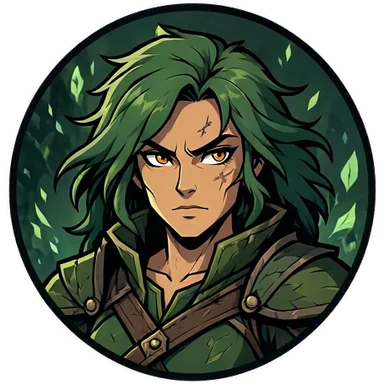
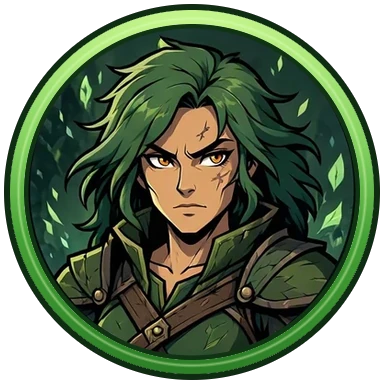
Garra con aro verde en su retrato, como el de Midas

diff --git a/sw.js b/sw.js
@@ -2,7 +2,7 @@
 // Guarda el juego para poder jugar sin conexión. Página, JS y CSS van
 // primero a la red (así se ven los cambios al momento); imágenes y fuentes
 // salen de la caché y se renuevan por detrás.
-var CACHE = 'reino-de-torres-v72';
+var CACHE = 'reino-de-torres-v73';
 var CORE = ['./', 'index.html', 'style.css', 'favicon.svg', 'manifest.json', 'js/data.js', 'js/version.js', 'js/art.js', 'js/meta.js', 'js/board.js', 'js/battle.js', 'js/ui.js', 'assets/ui/boton.webp', 'assets/ui/boton-jugar.webp', 'assets/ui/banner-mazo.webp', 'assets/ui/hueco-cofre.webp', 'assets/ui/boton-duelo.webp', 'assets/ui/boton-coop.webp', 'assets/ui/banner-comandante.webp', 'assets/ui/header.webp', 'assets/ui/navbar.webp', 'assets/ui/titulo.webp', 'assets/ui/letrero.webp', 'assets/tablero.webp', 'assets/enemies/blob.webp', 'assets/ui/fondo.webp', 'assets/ui/boton-invocar.webp', 'assets/ui/marco-carta.webp', 'assets/ui/carta.webp', 'assets/ui/vida.webp', 'assets/ui/mana.webp', 'assets/ui/contador-mana.webp', 'assets/ui/comandante.webp', 'assets/ui/boton-invocar-2.webp', 'assets/ui/boton-invocar-gris.webp', 'assets/ui/marco.webp', 'assets/ui/marco-tienda.webp', 'assets/ui/filtro-rareza.webp', 'assets/ui/filtro-rareza-h.webp?v=2', 'assets/ui/modo-campana.webp', 'assets/ui/modo-duelo.webp', 'assets/ui/modo-coop.webp', 'assets/ui/modo-torneo.webp', 'assets/ui/modo-coop-limpio.webp', 'assets/ui/modo-roguelike.webp', 'assets/chests/destello.webp', 'assets/chests/moneda.webp', 'assets/chests/oro-monedas.webp', 'assets/chests/oro-saco.webp', 'assets/chests/oro-cofre.webp', 'assets/commanders/aria.webp?v=2', 'assets/commanders/aria-cuerpo.webp', 'assets/commanders/merlo.webp?v=2', 'assets/commanders/merlo-cuerpo.webp', 'assets/commanders/brann.webp?v=2', 'assets/commanders/brann-cuerpo.webp', 'assets/commanders/nyx.webp', 'assets/commanders/nyx-cuerpo.webp', 'assets/commanders/sol.webp', 'assets/commanders/sol-cuerpo.webp', 'assets/commanders/morgana.webp', 'assets/commanders/morgana-cuerpo.webp', 'assets/commanders/torvald.webp', 'assets/commanders/torvald-cuerpo.webp', 'assets/events/eclipse.webp', 'assets/events/lluvia.webp', 'assets/events/niebla.webp', 'assets/events/horda.webp', 'assets/events/calma.webp', 'assets/boards/lava2.webp', 'assets/boards/hielo.webp', 'assets/boards/roca.webp', 'assets/boards/veneno.webp', 'assets/ui/tarjeta-tienda.webp', 'assets/ui/misiones.webp', 'assets/fx/eco-resuena.webp', 'assets/fx/fusion-eco.webp', 'assets/fx/oria-interes.webp', 'assets/fx/garra-lobo.webp', 'assets/fx/garra-lobo-2.webp', 'assets/ui/tarjeta-comandante-2.webp', 'assets/ui/arbol-talentos.webp', 'assets/ui/arbol-comandante.webp', 'assets/fx/nyx-maldicion.webp', 'assets/fx/nyx-chispas.webp', 'assets/fx/sol-escudo.webp', 'assets/fx/morgana-ensamblaje.webp', 'assets/fx/torvald-forja.webp', 'assets/fx/torvald-carga.webp', 'assets/fx/ventisca.webp', 'assets/fx/marea.webp', 'assets/fx/meteoro.webp', 'assets/fx/crater.webp', 'assets/fx/boreas-ventisca.webp', 'assets/fx/midas-critico.webp', 'assets/fx/estado-helado.webp', 'assets/fx/estado-armadura.webp', 'assets/fx/estado-quemado.webp', 'assets/fx/estado-veneno.webp', 'assets/fx/estado-critico.webp', 'assets/fx/estado-aturdido.webp', 'assets/chests/oro-rebosante.webp', 'assets/tiles/altar.webp', 'assets/tiles/fuente.webp', 'assets/tiles/atalaya.webp', 'assets/fx/muerte-puf.webp', 'assets/fx/invocar.webp', 'assets/fx/fusion.webp', 'assets/fx/fusion-doblon.webp', 'assets/fx/mover.webp', 'assets/fx/ralentizado-1.webp', 'assets/fx/ralentizado-2.webp', 'assets/fx/ralentizado-3.webp', 'assets/fx/ralentizado-4.webp', 'assets/fx/ralentizado-5.webp', 'assets/fx/conector-fuego.webp', 'assets/fx/conector-hielo.webp', 'assets/fx/conector-naturaleza.webp', 'assets/fx/conector-arcano.webp', 'assets/fx/conector-metal.webp', 'assets/ui/cartel-entrada.webp', 'assets/ui/cartel-salida.webp'].concat(['lyra', 'brasa', 'nivea', 'doblon', 'rocco', 'volta', 'mirra', 'melodia', 'sombra', 'cronos', 'halcon', 'ulric', 'fenix', 'aurora', 'titan', 'boreas', 'midas', 'kaia', 'seren', 'oria', 'garra'].map(function (id) { return 'assets/cells/' + id + '.webp'; })).concat(['piedra-1'].map(function (k) { return 'assets/tiles/' + k + '.webp?v=2'; })).concat([['bosque', 12], ['lava', 12], ['hielo', 4], ['veneno', 12], ['roca', 12]].reduce(function (a, t) { for (var n = 1; n <= t[1]; n++) a.push('assets/tiles/' + t[0] + '-' + n + '.webp?v=2'); return a; }, [])).concat(['comun', 'rara', 'epica', 'mitica', 'legendaria'].map(function (k) { return 'assets/ui/tienda-' + k + '.webp'; })).concat(['lyra', 'brasa', 'nivea', 'doblon', 'rocco', 'volta', 'mirra', 'melodia', 'sombra', 'cronos', 'halcon', 'ulric', 'fenix', 'aurora', 'titan', 'boreas', 'midas', 'kaia', 'seren', 'eco', 'oria', 'garra'].map(function (id) { return 'assets/units/' + id + '.webp'; })).concat(['lyra', 'brasa', 'nivea', 'doblon', 'rocco', 'volta', 'mirra', 'melodia', 'sombra', 'cronos', 'halcon', 'ulric', 'fenix', 'aurora', 'titan', 'boreas', 'midas', 'kaia', 'seren'].reduce(function (a, id) { return a.concat(['assets/units/board/' + id + '-idle.webp?v=3', 'assets/units/board/' + id + '-attack.webp']); }, [])).concat(['eco', 'oria', 'garra'].map(function (id) { return 'assets/units/board/' + id + '-idle.webp?v=3'; })).concat(['madera', 'plata', 'oro', 'comandante', 'legendario'].reduce(function (a, k) { return a.concat(['assets/chests/' + k + '.webp', 'assets/chests/' + k + '-abierto.webp', 'assets/chests/portal-' + k + '.webp']); }, ['assets/chests/legendario-abriendo.webp']).concat(['comun', 'rara', 'epica', 'mitica', 'legendaria'].reduce(function (a, k) { return a.concat(['assets/ui/fondo-carta-' + k + '.webp', 'assets/ui/cinta-' + k + '.webp']); }, []))).concat(['fuego', 'hielo', 'veneno', 'canon', 'flecha', 'rayo', 'sombra', 'engranaje', 'bala', 'luz'].reduce(function (a, k) { return a.concat(['destello', 'bola', 'impacto'].map(function (p) { return 'assets/fx/' + k + '-' + p + '.webp'; })); }, [])).concat(['moneda', 'gema', 'trofeo', 'estrella', 'gota', 'corona', 'espadas', 'escudo', 'candado', 'pergamino', 'ticket', 'reloj', 'fuego', 'hielo', 'hoja', 'arcano', 'engranaje', 'explosion', 'veneno', 'rayo', 'critico', 'perfora', 'musica', 'diana', 'grafico', 'vecinas', 'chispas', 'calavera', 'ola', 'rival-facil', 'rival-normal', 'rival-dificil', 'derrota', 'sonido', 'silencio', 'rapido', 'reiniciar', 'casa', 'aviso', 'mano', 'dado', 'recolocar', 'mejorar'].map(function (k) { return 'assets/icons/' + k + '.webp'; })).concat(['ghost', 'brute', 'orco', 'rocoso', 'escarcha', 'gelido', 'coloso', 'coloso2', 'nigro', 'dragon'].map(function (id) { return 'assets/enemies/' + id + '.webp'; }));
 self.addEventListener('install', function (e) { e.waitUntil(caches.open(CACHE).then(function (c) { return c.addAll(CORE); }).then(function () { return self.skipWaiting(); })); });
 self.addEventListener('activate', function (e) { e.waitUntil(caches.keys().then(function (ks) { return Promise.all(ks.filter(function (k) { return k !== CACHE; }).map(function (k) { return caches.delete(k); })); }).then(function () { return self.clients.claim(); })); });

diff --git a/js/version.js b/js/version.js
@@ -7,8 +7,15 @@
    La ventana sale sola al entrar con una versión nueva (meta.lastSeenVersion)
    y también desde Opciones.
    ========================================================= */
-var APP_VERSION = '1.17.0';
+var APP_VERSION = '1.17.1';
 var APP_PATCH_NOTES = [
+  {
+    version: '1.17.1',
+    summary: 'Garra con aro verde',
+    items: [
+      'El retrato de Garra lleva un aro verde alrededor, como el dorado de Midas.'
+    ]
+  },
   {
     version: '1.17.0',
     summary: 'Losetas nuevas, carteles en el camino y comandantes equilibrados',

diff --git a/index.html b/index.html
@@ -58,7 +58,7 @@
   <div id="toast" class="toast"></div>
 
   <script src="js/data.js?v=44"></script>
-  <script src="js/version.js?v=34"></script>
+  <script src="js/version.js?v=35"></script>
   <script src="js/art.js?v=42"></script>
   <script src="js/meta.js?v=28"></script>
   <script src="js/board.js?v=42"></script>
